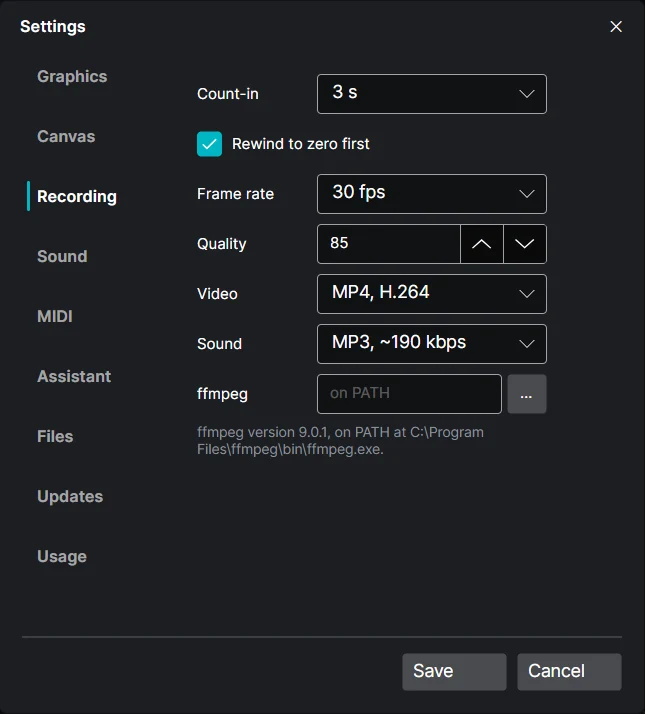
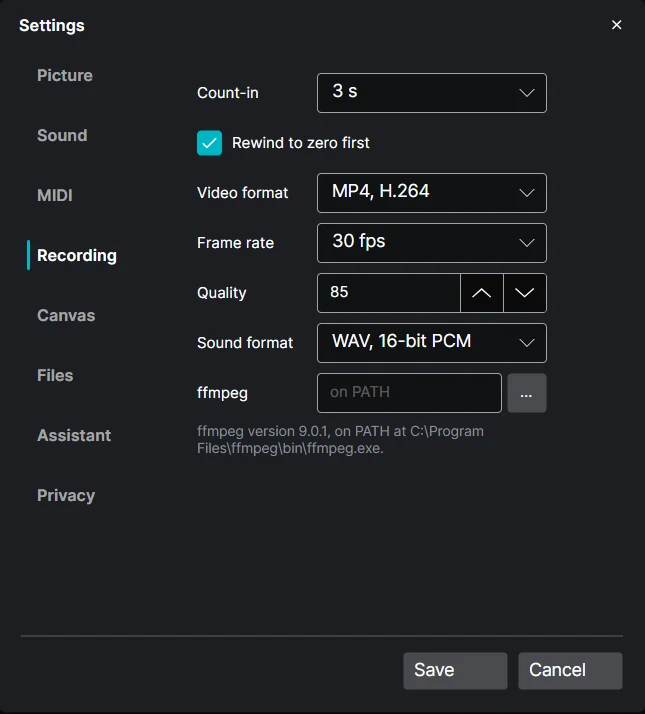
The Settings screenshot on the tutorials page shows the Recording tab as it is now

diff --git a/site/tutorials.html b/site/tutorials.html
@@ -619,7 +619,7 @@ out.volume = 0.5</code></pre>
     <figure>
       <a class="zoom" href="assets/shots/settings.webp">
         <img class="shot natural" loading="lazy" src="assets/shots/settings.webp" width="645" height="714"
-             alt="The Settings window on the Recording tab: Count-in 3 s, Rewind to zero first ticked, Video format MP4, H.264, Frame rate 30 fps, Quality 85, Sound format MP3, about 190 kbps, and ffmpeg found on PATH with its version and where it is. The other tabs, Picture, Sound, MIDI, Canvas, Files, Assistant and Privacy, are on the left.">
+             alt="The Settings window on the Recording tab: Count-in 3 s, Rewind to zero first ticked, Video format MP4, H.264, Frame rate 30 fps, Quality 85, Sound format WAV, 16-bit PCM, and ffmpeg found on PATH with its version and where it is. The other tabs, Picture, Sound, MIDI, Canvas, Files, Assistant and Privacy, are on the left.">
       </a>
       <figcaption>Settings → Recording: the count-in, the rewind, and both formats, with the ffmpeg that was found.</figcaption>
     </figure>

diff --git a/.claude/skills/site-screenshots/stale.md b/.claude/skills/site-screenshots/stale.md
@@ -2,6 +2,5 @@
 
 Shots in `site/assets/shots` that no longer match the app and need the real window to retake, waiting for a retake session. One line per shot: the file, where the site uses it, what no longer matches, the date it went stale. A shot comes off the list in the commit that retakes it.
 
-- `settings.webp` (tutorials.html recording section): the tabs are now Picture, Sound, MIDI, Recording, Canvas, Files, Assistant and Privacy, and Recording lists Video format before Frame rate and Quality. Stale since 2026-10-01.
 - `presets-list.webp` (index.html "Start from a preset"): the gallery is three columns now, with the filter, headings, Works with and Topics on the left, the prompt card and cards in the middle, and the chosen card with Use this preset on the right. Stale since 2026-10-05.
 - `assistant.webp` (index.html "The assistant", tutorials.html assistant section): the column has a header with the model and a status pill, a context bar under it, the person's messages in bubbles on the right, proposals in cards, and Expand and Send on a row under the box. Stale since 2026-10-07.
